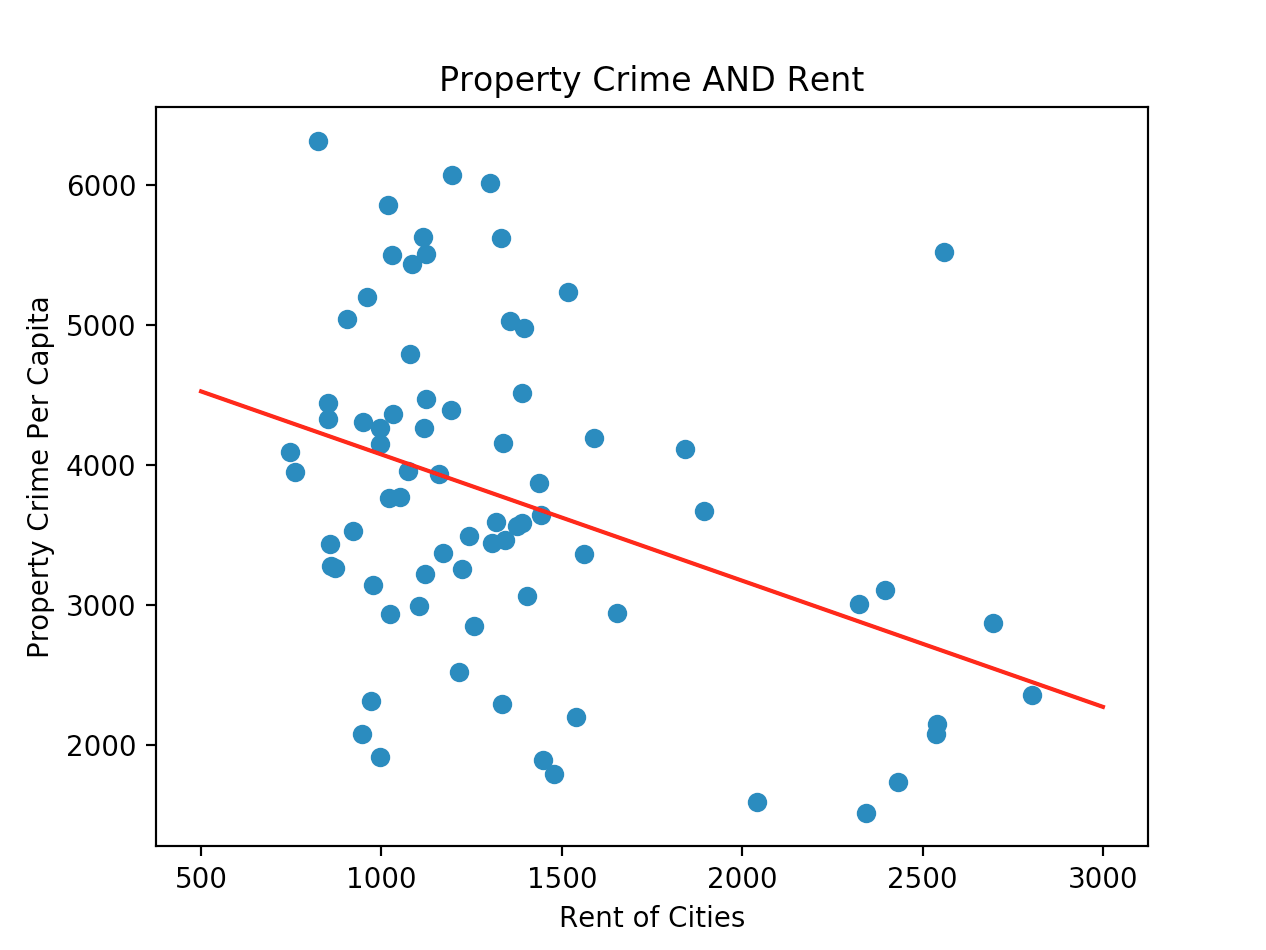
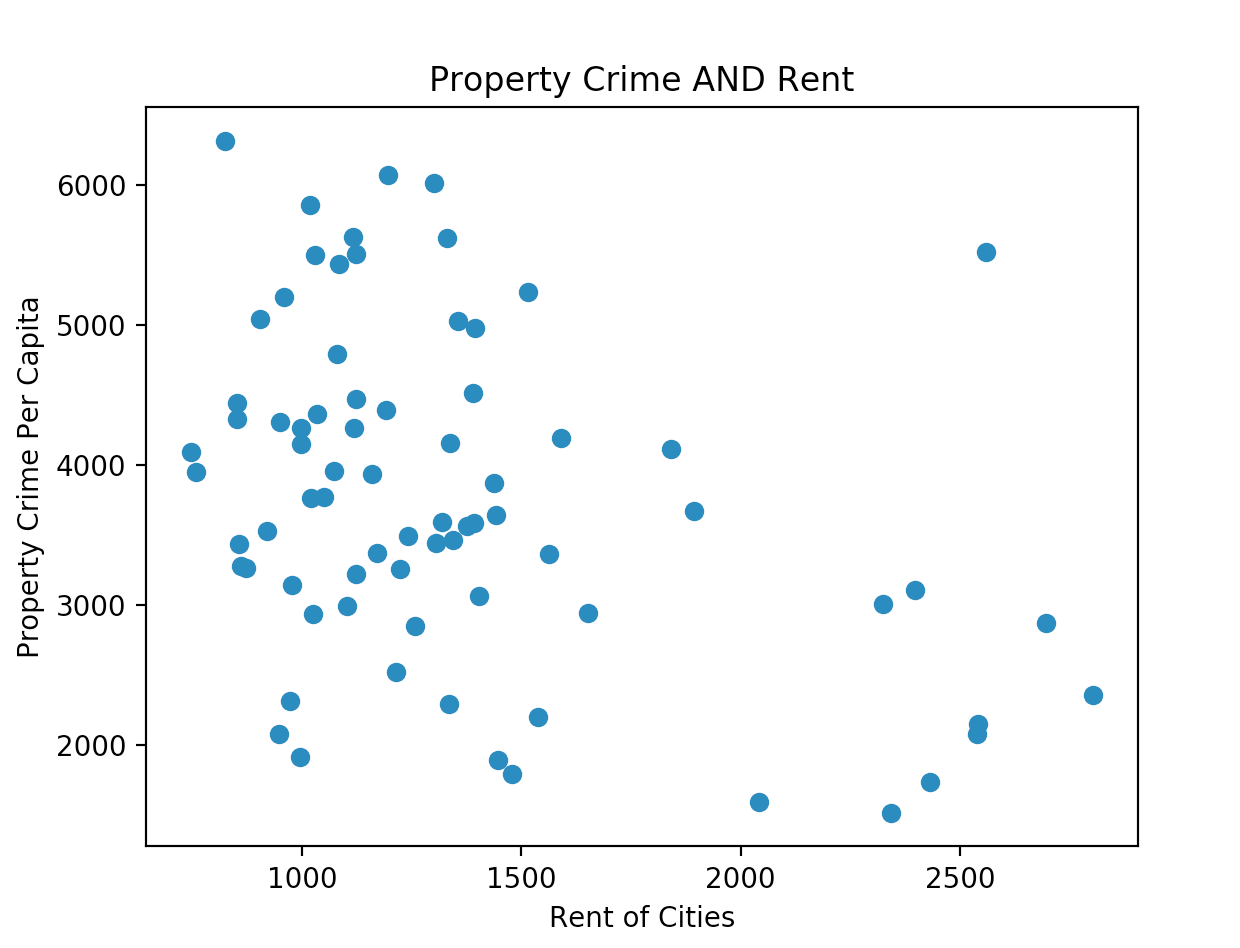
Changing graphs

diff --git a/nationalCityCrime.py b/nationalCityCrime.py
@@ -62,9 +62,6 @@ plt.xlabel("Rent of Cities")
 plt.ylabel("Violent Crime Per Capita")
 plt.title("Violent Crime AND Rent")
 plt.scatter(X, vrY)
-vrP4 = np.poly1d(np.polyfit(X, vrY, 1))
-vrxp = np.linspace(500, 3000, 10000)
-plt.plot(vrxp, vrP4(vrxp), c = 'r')
 vrGraph.show()
 
 ## Property crime and rent graph. 
@@ -79,9 +76,6 @@ plt.scatter(X, prY)
 plt.xlabel("Rent of Cities")
 plt.ylabel("Property Crime Per Capita")
 plt.title("Property Crime AND Rent")
-prP4 = np.poly1d(np.polyfit(X, prY, 1))
-prxp = np.linspace(500, 3000, 10000)
-plt.plot(prxp, prP4(prxp), c = 'r')
 prGraph.show()
 
 ## Crime and rent graph. 
@@ -97,19 +91,22 @@ plt.scatter(X, crY)
 plt.xlabel("Rent of Cities")
 plt.ylabel("Crime Per Capita")
 plt.title("Crime AND Rent")
-crP4 = np.poly1d(np.polyfit(X, crY, 1))
+crP1 = np.poly1d(np.polyfit(X, crY, 1))
+crP3 = np.poly1d(np.polyfit(X, crY, 3))
+crP5 = np.poly1d(np.polyfit(X, crY, 5))
 crxp = np.linspace(500, 3000, 10000)
-plt.plot(crxp, crP4(crxp), c = 'r')
+plt.plot(crxp, crP1(crxp), c = 'r')
+plt.plot(crxp, crP3(crxp), c = 'k')
+plt.plot(crxp, crP5(crxp), c = 'g')
+plt.legend(['1st Poly', '3rd Poly', '5th Poly'], loc = 1)
 crGraph.show()
 
 
 # All the r2 scores for all the above graph
-vrr2 = r2_score(vrY, vrP4(X))
-print(vrr2)
-prr2 = r2_score(prY, prP4(X))
-print(prr2)
-crr2 = r2_score(crY, crP4(X))
-print(crr2)
+print("The r-squared error for 1st polynomial is: " + str(r2_score(crY, crP1(X))))
+print("The r-squared error for 3rd polynomial is: " + str(r2_score(crY, crP3(X))))
+print("The r-squared error for 5th polynomial is: " + str(r2_score(crY, crP5(X))))
+
 
 input()
 
